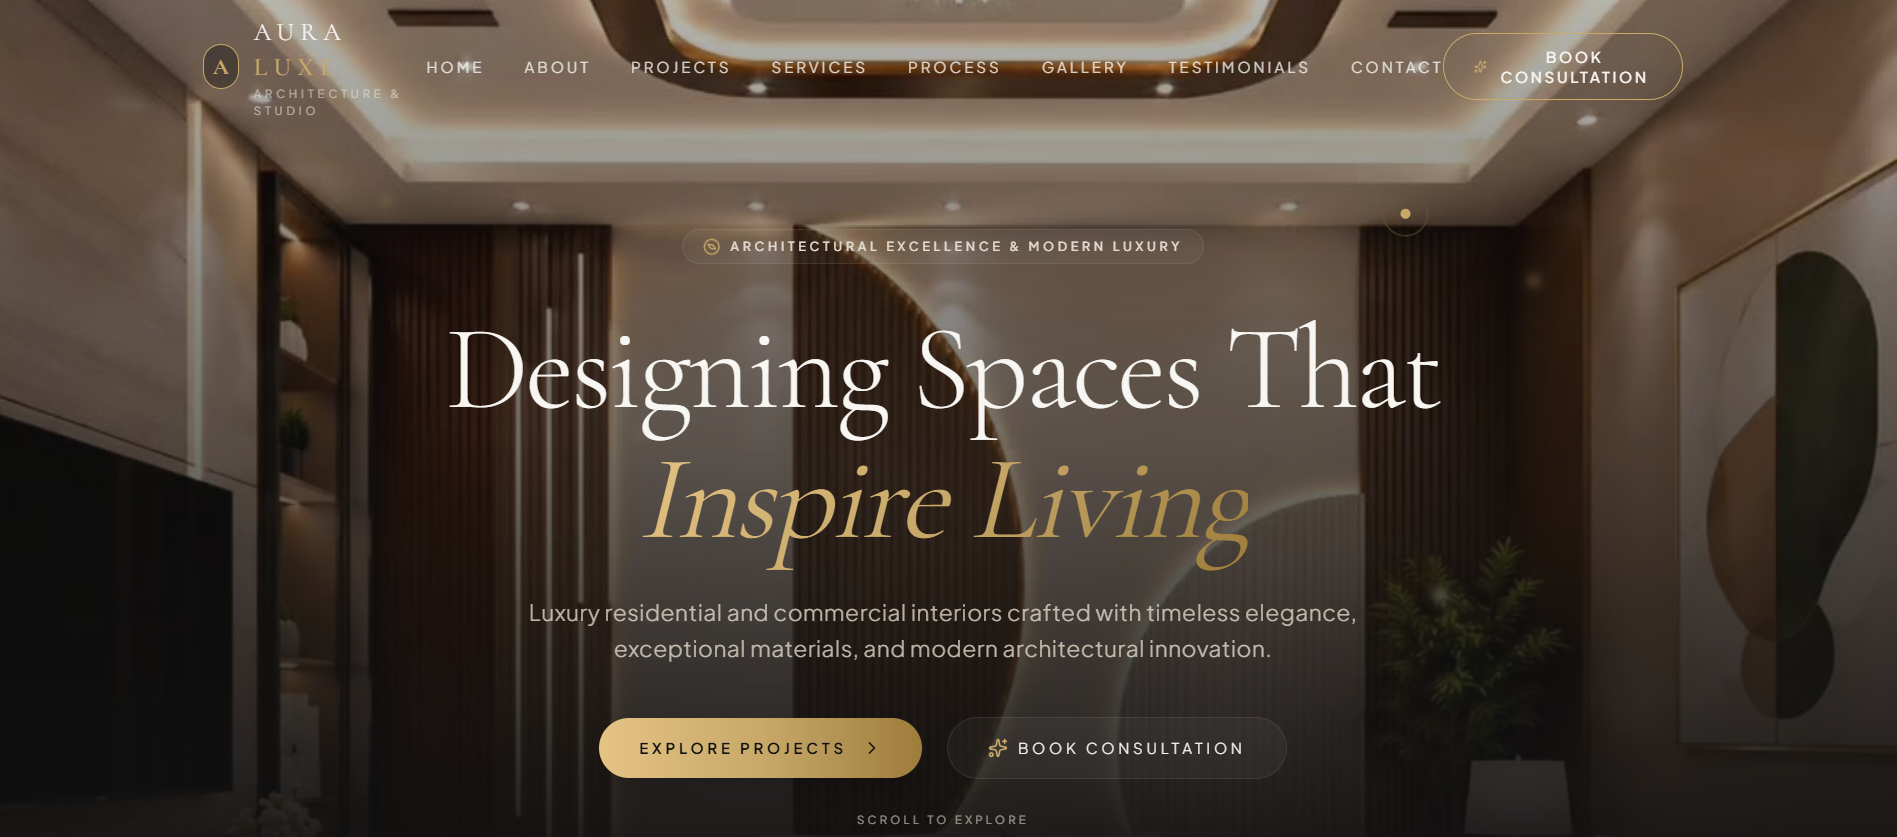
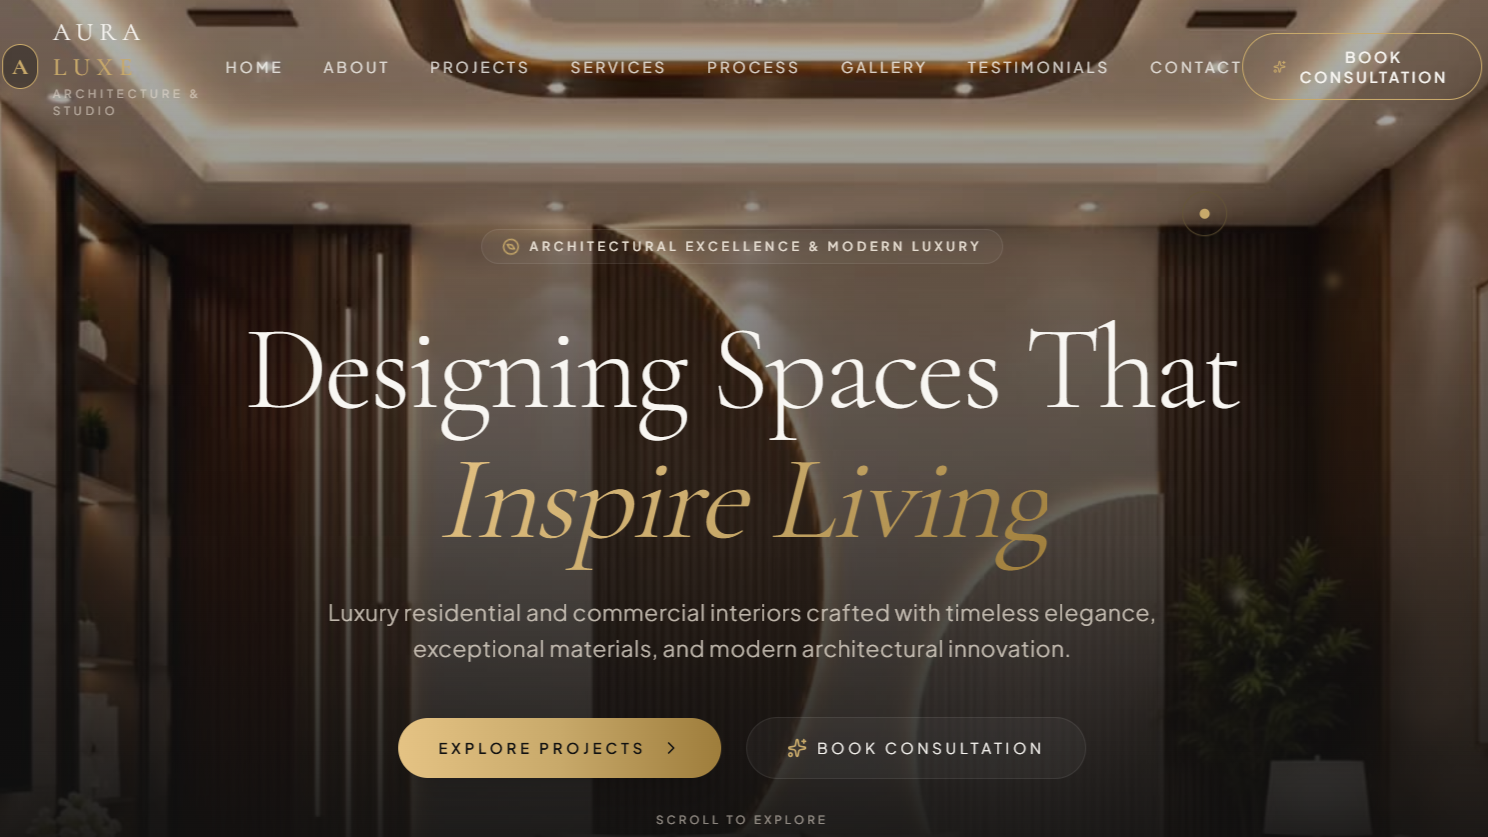
16:9 Aspect Ratio

diff --git a/src/components/pages/WorkClient.tsx b/src/components/pages/WorkClient.tsx
@@ -319,13 +319,13 @@ export default function WorkClient() {
             >
               <div>
                 {project.image ? (
-                  <div className="relative aspect-[16/10] w-full rounded-[12px] overflow-hidden mb-6 bg-[#14121b] border border-[#e0e0e0] shadow-[0_4px_20px_rgba(0,0,0,0.08)]">
+                  <div className="relative aspect-[16/9] w-full rounded-[12px] overflow-hidden mb-6 bg-[#14121b] border border-[#e0e0e0] shadow-[0_4px_20px_rgba(0,0,0,0.08)]">
                     <Image
                       src={project.image}
                       alt={project.title}
                       fill
                       sizes="(max-width: 768px) 100vw, 50vw"
-                      className="object-contain hover:scale-105 transition-transform duration-500 p-2"
+                      className="object-contain w-full h-full hover:scale-105 transition-transform duration-500 p-1.5"
                     />
                   </div>
                 ) : null}

diff --git a/src/components/sections/FeaturedWork.tsx b/src/components/sections/FeaturedWork.tsx
@@ -71,13 +71,13 @@ export default function FeaturedWork() {
             >
               <div>
                 {project.image ? (
-                  <div className="relative aspect-[16/10] w-full rounded-[12px] overflow-hidden mb-6 bg-[#14121b] border border-white/10 shadow-[0_4px_25px_rgba(0,0,0,0.3)]">
+                  <div className="relative aspect-[16/9] w-full rounded-[12px] overflow-hidden mb-6 bg-[#14121b] border border-white/10 shadow-[0_4px_25px_rgba(0,0,0,0.3)]">
                     <Image
                       src={project.image}
                       alt={project.title}
                       fill
                       sizes="(max-width: 768px) 100vw, 33vw"
-                      className="object-contain hover:scale-105 transition-transform duration-500 p-2"
+                      className="object-contain w-full h-full hover:scale-105 transition-transform duration-500 p-1.5"
                     />
                   </div>
                 ) : null}
